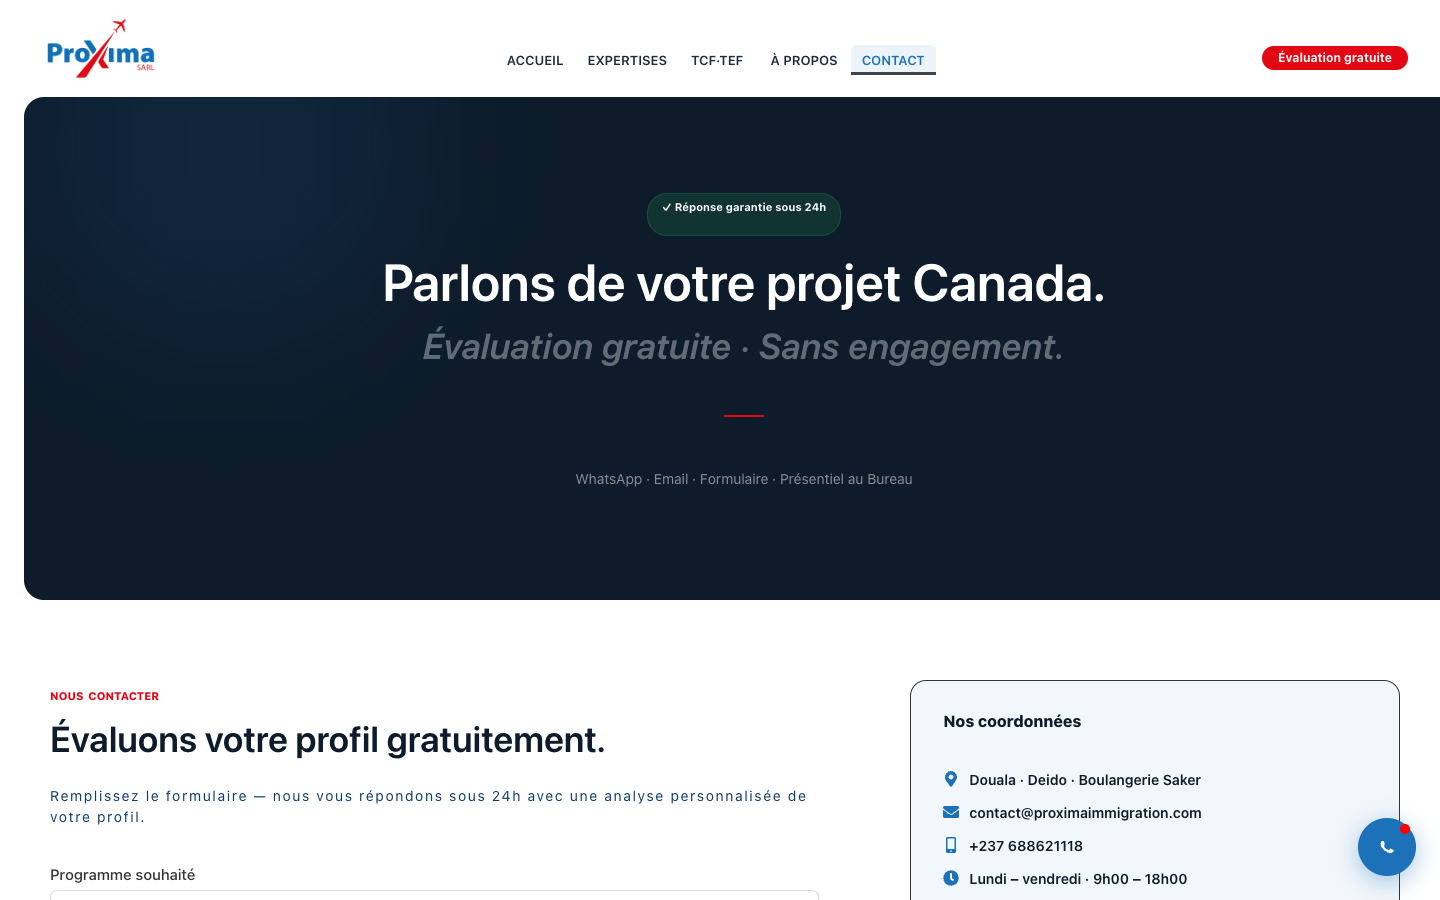
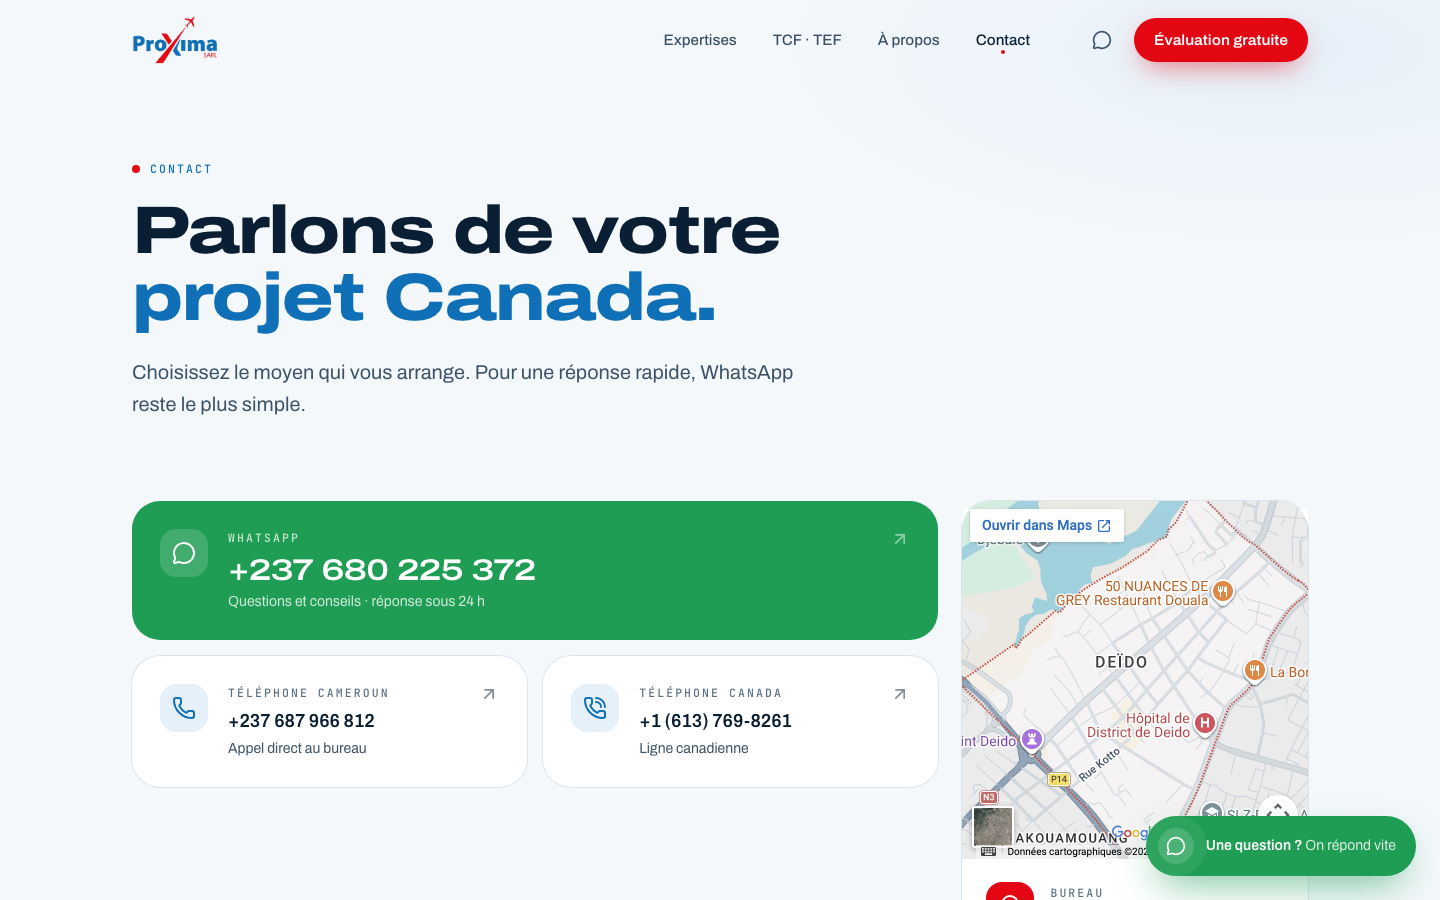
Point Proxima at its Vercel URL and show the live pages.

diff --git a/README.md b/README.md
@@ -5,9 +5,13 @@ Site vitrine : expertises (résidence, études, travail, famille), préparation 
 
 ![Accueil en ligne](docs/portfolio/home.png)
 
+![Expertises en ligne](docs/portfolio/expertises.png)
+
+![TCF / TEF en ligne](docs/portfolio/tcf-tef.png)
+
 ![Contact en ligne](docs/portfolio/contact.png)
 
-**Live:** [proxima-immigration.com](https://proxima-immigration.com)
+**Live:** [proxima-immigration.vercel.app](https://proxima-immigration.vercel.app/)
 
 ## What it does
 
